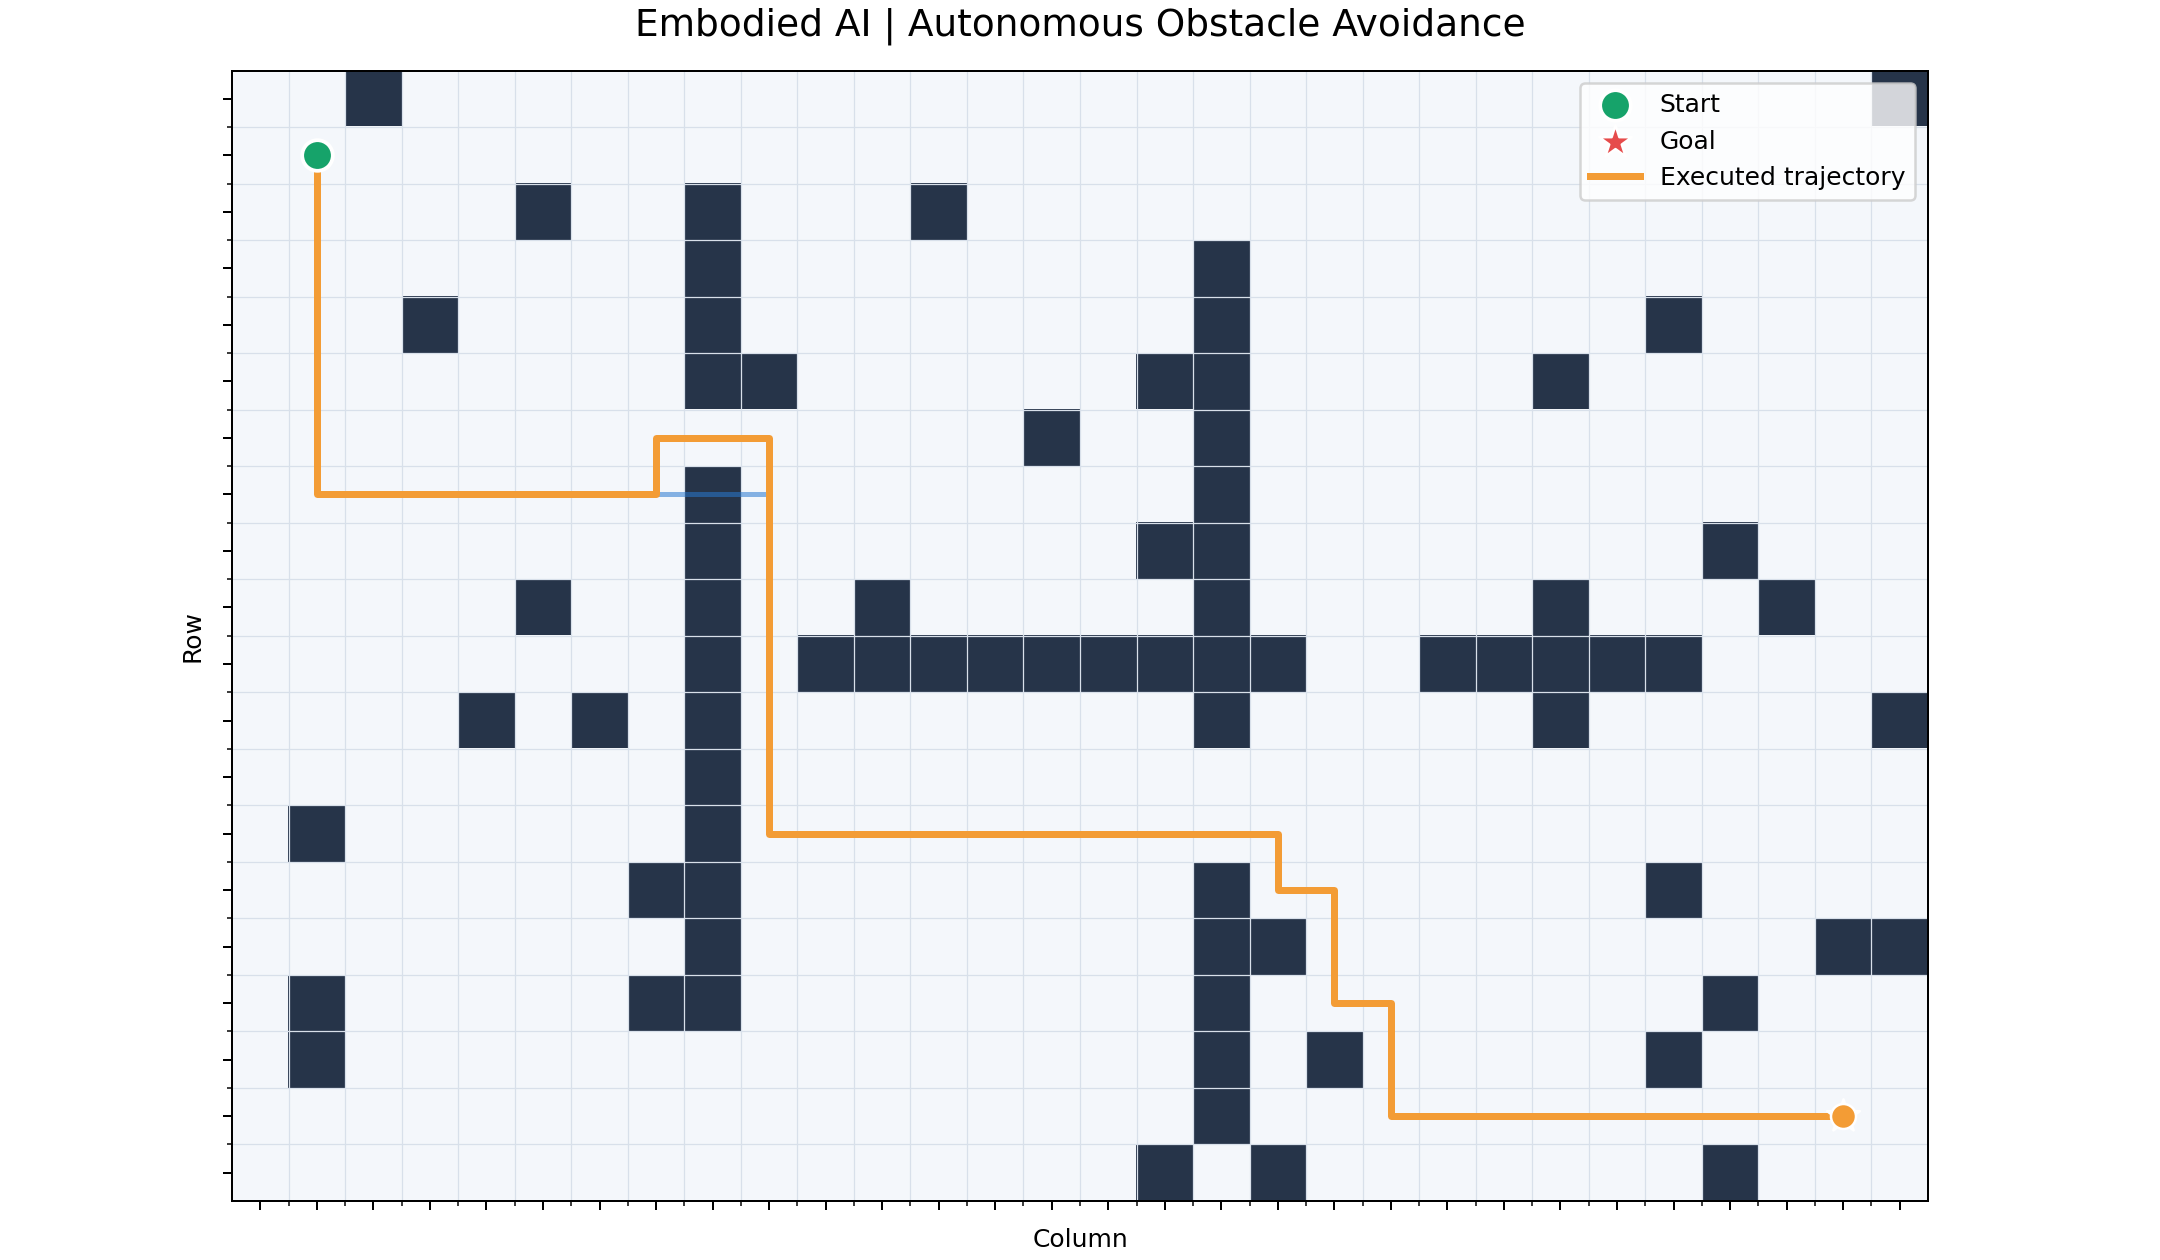
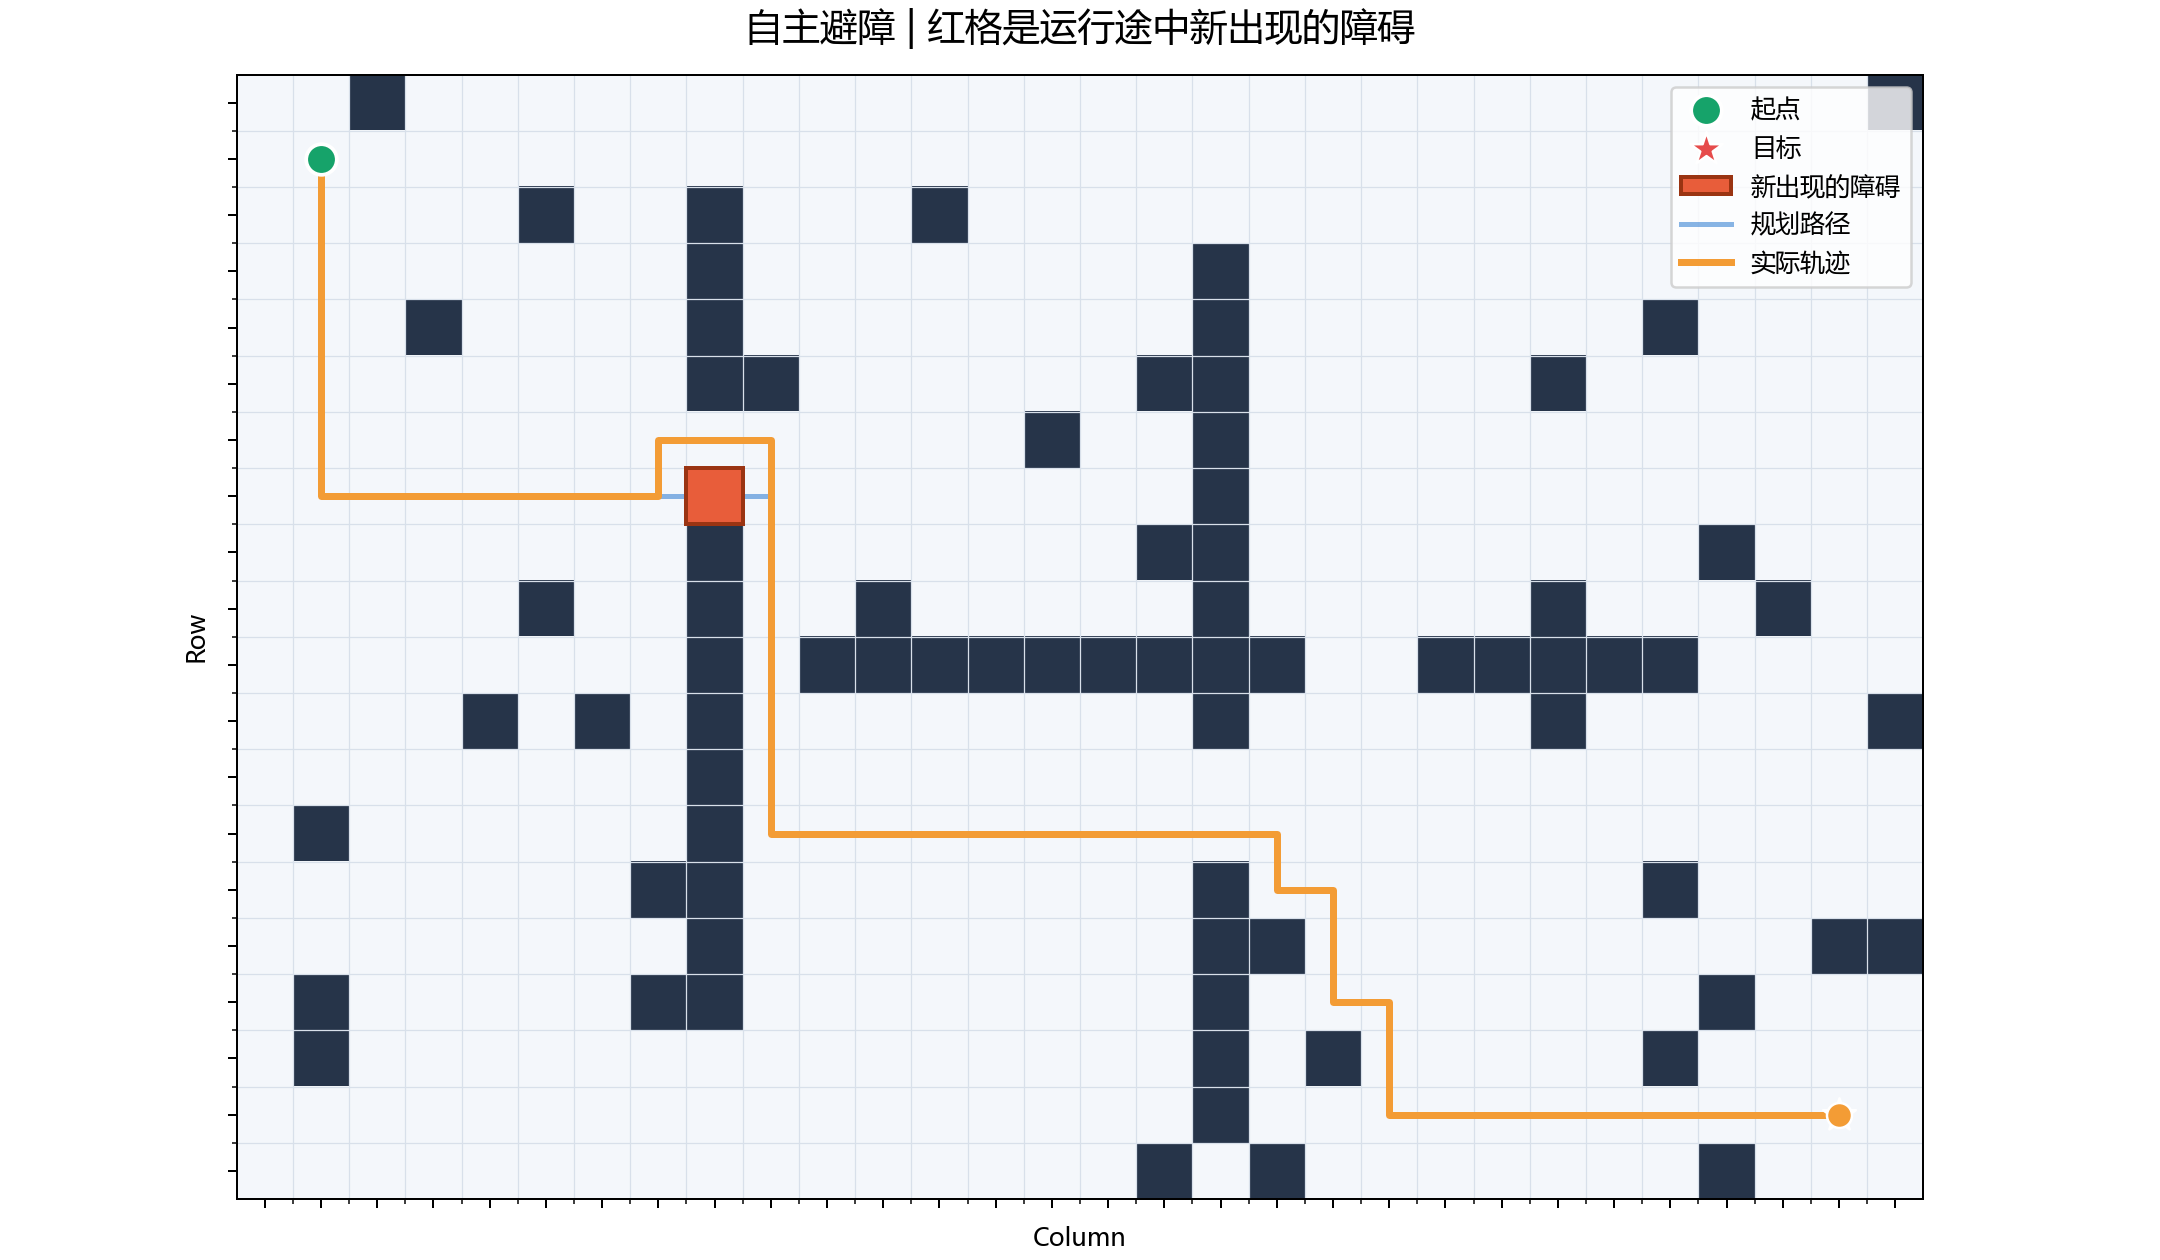
Show the new obstacle appearing in the navigation demo.
The GIF now keeps that cell empty until the replan step, then marks it in red and reroutes the planned path.

diff --git a/src/embodied_nav/visualization.py b/src/embodied_nav/visualization.py
@@ -13,14 +13,70 @@ if os.environ.get("EMBODIED_NAV_INTERACTIVE") != "1" and "matplotlib.pyplot" not
 import matplotlib.pyplot as plt
 from matplotlib.animation import FuncAnimation, PillowWriter
 from matplotlib.colors import ListedColormap
+from matplotlib.patches import Rectangle
 
 from .environment import Cell, GridWorld
 from .simulation import SimulationResult
 
+plt.rcParams["font.sans-serif"] = ["Microsoft YaHei", "SimHei", "DejaVu Sans"]
+plt.rcParams["axes.unicode_minus"] = False
 
-def _draw_base(ax, world: GridWorld, start: Cell, goal: Cell):
+NEW_OBSTACLE = "#e85d3a"
+NEW_OBSTACLE_EDGE = "#9a3412"
+
+
+def _display_grid(world: GridWorld, hidden: set[Cell] | None) -> object:
+    """动画开始前藏起尚未出现的障碍，避免它看起来从第一帧就存在。"""
+    if not hidden:
+        return world.occupancy
+    grid = world.occupancy.copy()
+    for cell in hidden:
+        if world.in_bounds(cell):
+            grid[cell] = 0
+    return grid
+
+
+def _mark_new_obstacles(ax, cells: list[Cell], visible: bool = True) -> list[Rectangle]:
+    patches: list[Rectangle] = []
+    for row, col in cells:
+        patch = Rectangle(
+            (col - 0.5, row - 0.5),
+            1,
+            1,
+            facecolor=NEW_OBSTACLE,
+            edgecolor=NEW_OBSTACLE_EDGE,
+            linewidth=1.6,
+            zorder=4,
+            visible=visible,
+            label="新出现的障碍" if not patches else None,
+        )
+        ax.add_patch(patch)
+        patches.append(patch)
+    return patches
+
+
+def _active_plan(result: SimulationResult, frame: int) -> list[Cell]:
+    history = result.path_history
+    if not history or not result.planned_paths:
+        return []
+    current = history[min(frame, len(history) - 1)]
+    seen = set(history[: frame + 1])
+    chosen: list[Cell] = []
+    for path in result.planned_paths:
+        if path and path[0] in seen and current in path:
+            chosen = path
+    return chosen
+
+
+def _draw_base(
+    ax,
+    world: GridWorld,
+    start: Cell,
+    goal: Cell,
+    hidden: set[Cell] | None = None,
+):
     ax.imshow(
-        world.occupancy,
+        _display_grid(world, hidden),
         cmap=ListedColormap(["#f4f7fb", "#263449"]),
         vmin=0,
         vmax=1,
@@ -34,9 +90,9 @@ def _draw_base(ax, world: GridWorld, start: Cell, goal: Cell):
     ax.set_yticks([y - 0.5 for y in range(1, world.rows)], minor=True)
     ax.grid(which="minor", color="#d8e0ea", linewidth=0.5)
     ax.scatter(start[1], start[0], s=150, c="#16a36a", edgecolors="white",
-               linewidths=1.5, label="Start", zorder=5)
+               linewidths=1.5, label="起点", zorder=5)
     ax.scatter(goal[1], goal[0], s=190, c="#e64b4b", marker="*",
-               edgecolors="white", linewidths=1.0, label="Goal", zorder=5)
+               edgecolors="white", linewidths=1.0, label="目标", zorder=5)
     ax.set_xlim(-0.5, world.cols - 0.5)
     ax.set_ylim(world.rows - 0.5, -0.5)
     ax.set_aspect("equal")
@@ -53,19 +109,27 @@ def save_static_plot(
     output_path.parent.mkdir(parents=True, exist_ok=True)
     fig, ax = plt.subplots(figsize=(12, 7), constrained_layout=True)
     _draw_base(ax, world, start, goal)
-    for planned in result.planned_paths:
+    dynamic_cells = [cell for _, cell in result.obstacle_events]
+    _mark_new_obstacles(ax, dynamic_cells, visible=True)
+    for index, planned in enumerate(result.planned_paths):
         if planned:
-            ax.plot([p[1] for p in planned], [p[0] for p in planned],
-                    color="#2878d0", linewidth=2.0, alpha=0.55)
+            ax.plot(
+                [p[1] for p in planned],
+                [p[0] for p in planned],
+                color="#2878d0",
+                linewidth=2.0,
+                alpha=0.55,
+                label="规划路径" if index == 0 else None,
+            )
     if result.path_history:
         ax.plot(
             [p[1] for p in result.path_history],
             [p[0] for p in result.path_history],
-            color="#f39c35", linewidth=2.8, label="Executed trajectory",
+            color="#f39c35", linewidth=2.8, label="实际轨迹",
         )
         ax.scatter(result.path_history[-1][1], result.path_history[-1][0],
                    s=100, c="#f39c35", edgecolors="white", zorder=6)
-    ax.set_title("Embodied AI | Autonomous Obstacle Avoidance", fontsize=15, pad=14)
+    ax.set_title("自主避障 | 红格是运行途中新出现的障碍", fontsize=15, pad=14)
     ax.set_xlabel("Column")
     ax.set_ylabel("Row")
     ax.legend(loc="upper right", frameon=True)
@@ -84,21 +148,51 @@ def save_animation(
     output_path = Path(output_path)
     output_path.parent.mkdir(parents=True, exist_ok=True)
     history = result.path_history or [start]
+    hidden = {cell for _, cell in result.obstacle_events}
     fig, ax = plt.subplots(figsize=(10, 6), constrained_layout=True)
-    _draw_base(ax, world, start, goal)
-    trail, = ax.plot([], [], color="#2878d0", linewidth=2.4, alpha=0.8)
-    robot = ax.scatter([], [], s=150, c="#f39c35", edgecolors="white", zorder=7)
-    title = ax.set_title("Robot navigation | step 0")
+    _draw_base(ax, world, start, goal, hidden=hidden)
+    new_patches = []
+    for step, cell in result.obstacle_events:
+        new_patches.append((step, _mark_new_obstacles(ax, [cell], visible=False)[0]))
+    plan_line, = ax.plot([], [], color="#2878d0", linewidth=2.3, alpha=0.9, zorder=5, label="规划路径")
+    trail, = ax.plot([], [], color="#f39c35", linewidth=2.6, zorder=6, label="实际轨迹")
+    robot = ax.scatter([], [], s=150, c="#f39c35", edgecolors="white", zorder=7, label="机器人")
+    ax.legend(loc="upper right", frameon=True)
+    title = ax.set_title("导航 | 第 0 步")
+    # 障碍出现的那一帧多停一会儿，否则一闪而过看不出来。
+    frames: list[int] = []
+    for index in range(len(history)):
+        frames.append(index)
+        if any(step == index for step, _ in result.obstacle_events):
+            frames.extend([index] * 8)
 
     def update(frame):
         points = history[: frame + 1]
         trail.set_data([p[1] for p in points], [p[0] for p in points])
         robot.set_offsets([[points[-1][1], points[-1][0]]])
-        title.set_text(f"Robot navigation | step {frame}/{len(history)-1}")
-        return trail, robot, title
+        plan = _active_plan(result, frame)
+        if len(plan) >= 2:
+            plan_line.set_data([p[1] for p in plan], [p[0] for p in plan])
+        else:
+            plan_line.set_data([], [])
+        appeared = False
+        for step, patch in new_patches:
+            show = frame >= step
+            patch.set_visible(show)
+            appeared = appeared or show
+        if frame == len(history) - 1 and result.reached_goal:
+            note = "已到达目标"
+        elif any(frame == step for step, _ in result.obstacle_events):
+            note = "新障碍挡住路口，重新规划"
+        elif appeared:
+            note = "沿新路径绕行"
+        else:
+            note = "沿规划路径前进"
+        title.set_text(f"导航 | 第 {frame}/{len(history) - 1} 步 | {note}")
+        return trail, plan_line, robot, title
 
     animation = FuncAnimation(
-        fig, update, frames=len(history), interval=interval, blit=False,
+        fig, update, frames=frames, interval=interval, blit=False,
         repeat=False,
     )
     animation.save(output_path, writer=PillowWriter(fps=6))

diff --git a/README.md b/README.md
@@ -134,9 +134,11 @@ python -m unittest discover -s tests -v
 
 | 颜色/标记 | 含义 |
 |---|---|
-| 深色格子 | 障碍物 |
+| 深色格子 | 一开始就存在的障碍物 |
 | 浅色格子 | 可通行区域 |
-| 蓝色线条 | A* 规划路径 |
+| 红色格子 | 运行途中突然出现的障碍。出现前该格是空的，蓝线会从上面穿过去 |
+| 蓝色线条 | 当前的 A* 规划路径。红格出现后，这条线会改道 |
+| 橙色线条 | 机器人已经走过的轨迹 |
 | 绿色圆点 | 机器人起点 |
 | 红色星标 | 目标位置 |
 | 橙色圆点 | 机器人当前位置 |
